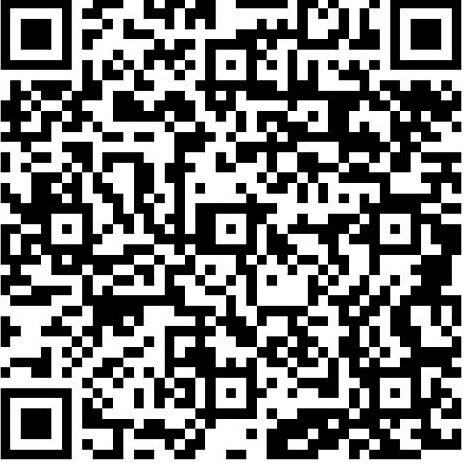
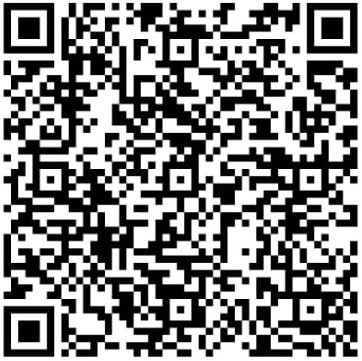
ok

diff --git a/templates/payment.html b/templates/payment.html
@@ -1,0 +1,144 @@
+<!DOCTYPE html>
+<html lang="en">
+
+<head>
+
+    <!--
+RSSI
+http://www.rssi.in
+-->
+    <title>Payment</title>
+</head>
+
+<meta name="description" content="">
+<meta name="author" content="">
+<meta charset="UTF-8">
+<meta http-equiv="X-UA-Compatible" content="IE=Edge">
+<meta name="viewport" content="width=device-width, initial-scale=1, maximum-scale=1">
+
+
+<link rel="shortcut icon" href="/images/logo/favicon.ico" type="image/x-icon" />
+<script src="/js/jquery.js"></script>
+<script>
+    $(function() {
+        $("#header").load("/header.html");
+        $("#footer").load("/footer.html");
+    });
+</script>
+<link rel="stylesheet" href="/css/HeaderFooter.css">
+<link rel="stylesheet" href="/css/bootstrap.min.css">
+<!-- Main css -->
+<link rel="stylesheet" href="/css/style.css">
+<link rel="stylesheet" href="/css/addstyle.css">
+
+<!-- =========================
+     NAVIGATION LINKS     
+============================== -->
+
+<body>
+
+    <div id="header"></div>
+
+    <!-- NAVIGATION PATH -->
+
+    <!--<img src="" alt="" width="100%"/><br>-->
+    <div style="margin: 0.3%;">
+        <ps class="marginleft notice" style="margin-left: 3%;">
+            <a href="/index">Home</a> &#62; Payment</ps>
+    </div>
+    <!-- =========================
+     Donation portal   
+============================== -->
+
+    <section id="donation" style="padding: 5%; background:#fff">
+
+
+        <div class="row1">
+            <div class="column6">
+                <div class="row1">
+                    <div class="column7 dnd marginleft">
+                        <p>Account Number: <b>201008915512</b></p>
+                        <p>A/C Name: 52617897 - Rina Shiksha Sahayak Foundation</p>
+                        <p>Bank Name: Indusind Bank Ltd, 0865 - Chhinhat Lucknow</p>
+                        <p>IFSC Code: INDB0000865</p>
+                    </div>
+
+                    <div class="column7a">
+                        <img src="/images/donation/payment.jpg" alt="Google pay QR" class="img-responsive"><br>
+                        <p class="text-warning">Scan the above QR code to make payment</p>
+                    </div>
+                </div>
+            </div>
+
+            <div class="column6a">
+                <embed src="/form" width="100%" height="430px">
+                </embed>
+            </div>
+        </div>
+        <br>
+    </section>
+
+
+    <!-- =========================
+     SCRIPTS   
+============================== -->
+
+    <script src="/js/pace.js"></script>
+    <script src="/js/fontawsome.js"></script>
+    <script src="/js/smoothscroll.js"></script>
+    <script src="/js/bootstrap.min.js"></script>
+    <script src="/js/jquery.parallax.js"></script>
+    <script src="/js/wow.min.js"></script>
+    <script src="/js/custom.js"></script>
+
+    <script>
+        document.addEventListener("DOMContentLoaded", function() {
+            var lazyloadImages = document.querySelectorAll("img.lazy");
+            var lazyloadThrottleTimeout;
+
+            function lazyload() {
+                if (lazyloadThrottleTimeout) {
+                    clearTimeout(lazyloadThrottleTimeout);
+                }
+
+                lazyloadThrottleTimeout = setTimeout(function() {
+                    var scrollTop = window.pageYOffset;
+                    lazyloadImages.forEach(function(img) {
+                        if (img.offsetTop < (window.innerHeight + scrollTop)) {
+                            img.src = img.dataset.src;
+                            img.classList.remove('lazy');
+                        }
+                    });
+                    if (lazyloadImages.length == 0) {
+                        document.removeEventListener("scroll", lazyload);
+                        window.removeEventListener("resize", lazyload);
+                        window.removeEventListener("orientationChange", lazyload);
+                    }
+                }, 20);
+            }
+
+            document.addEventListener("scroll", lazyload);
+            window.addEventListener("resize", lazyload);
+            window.addEventListener("orientationChange", lazyload);
+        });
+    </script>
+
+
+    <!-- =========================
+     FOOTER   
+============================== -->
+    <!-- Back top -->
+    <a id="bttbutton" href="#back-top" class="go-top"><i class="fa fa-angle-up"></i></a>
+    <script src="https://cdn.jsdelivr.net/gh/manucaralmo/GlowCookies@3.0.1/src/glowCookies.min.js"></script>
+    <!-- Glow Cookies v3.0.1 -->
+    <script>
+        glowCookies.start('en', {
+            analytics: 'G-S25QWTFJ2S',
+            //facebookPixel: '',
+            policyLink: '/website-disclaimer'
+        });
+    </script>
+    <div id="footer"></div>
+</body>
+
+</html>

diff --git a/templates/form.html b/templates/form.html
@@ -1,0 +1,83 @@
+<!DOCTYPE html>
+<html>
+
+<head>
+    <meta name="description" content="">
+    <meta name="author" content="">
+    <meta charset="UTF-8">
+    <meta http-equiv="X-UA-Compatible" content="IE=Edge">
+    <meta name="viewport" content="width=device-width, initial-scale=1, maximum-scale=1">
+    <title>Form</title>
+    <link href="//netdna.bootstrapcdn.com/bootstrap/3.1.0/css/bootstrap.min.css" rel="stylesheet" id="bootstrap-css">
+    <link rel="shortcut icon" href="../img/favicon.ico" type="image/x-icon" />
+    <!-- Main css -->
+    <script src="//netdna.bootstrapcdn.com/bootstrap/3.1.0/js/bootstrap.min.js"></script>
+    <script src="//cdnjs.cloudflare.com/ajax/libs/jquery/3.2.1/jquery.min.js"></script>
+    <!------ Include the above in your HEAD tag ---------->
+</head>
+
+<body>
+    <div class="container">
+        <div class="row">
+            <div class="col-md-4 col-md-offset-4">
+                <div class="login-panel panel panel-info" style="padding: 5%;">
+                    <div class="panel-heading">
+                        <h3 class="panel-title"><b>Payment Details</b></h3>
+                        <p style="line-height: 2;">After making payment, please fill this form.</p>
+                    </div>
+                    <form name="submit-to-google-sheet" id="submit-to-google-sheet" action="" method="POST" onSubmit="alert('Your response has been recorded.');">
+                        <br><label for="fname">Your name</label><br>
+                        <input type="text" required id="fname" name="fname"><br><br>
+
+                        <label for="email">Registered email ID</label><br>
+                        <input type="email" required id="email" name="email"><br><br>
+
+                        <label for="transactionid">Transaction ID</label><br>
+                        <input type="text" required id="transactionid" name="transactionid"><br><br>
+
+                        <input type="submit" id="btnSubmit" value="Submit">
+                        <input type="button" onclick='window.location.href="/form"' value="Reset form">
+                    </form>
+                </div>
+            </div>
+        </div>
+    </div>
+
+    <script>
+        const scriptURL = 'https://script.google.com/a/rssi.in/macros/s/AKfycbyszxSBdXvUOL4sCzlqOQiUzgn7b2LqN3JFBGgLgSqaGGNhU3lZ/exec'
+        const form = document.forms['submit-to-google-sheet']
+
+        form.addEventListener('submit', e => {
+            e.preventDefault()
+            fetch(scriptURL, {
+                    method: 'POST',
+                    body: new FormData(form)
+                })
+                .then(response => console.log('Success!', response))
+                .catch(error => console.error('Error!', error.message))
+        })
+    </script>
+    <script>
+        if (window.history.replaceState) {
+            window.history.replaceState(null, null, window.location.href);
+        }
+    </script>
+    <script>
+        $(document).ready(function() {
+
+            $("#submit-to-google-sheet").submit(function(e) {
+
+                //stop submitting the form to see the disabled button effect
+                e.preventDefault();
+
+                //disable the submit button
+                $("#btnSubmit").attr("disabled", true);
+
+                return true;
+
+            });
+        });
+    </script>
+</body>
+
+</html>

diff --git a/templates/donation-portal.html b/templates/donation-portal.html
@@ -67,8 +67,8 @@ http://www.rssi.in
                         <p>IFSC Code: INDB0000865</p>
                     </div>
 
-                    <!--<div class="column7a"> <img src="/images/donation/payment.jpg" alt="Google pay QR" class="img-responsive">
-                    </div>-->
+                    <div class="column7a"> <img src="/images/donation/payment.jpg" alt="Google pay QR" class="img-responsive">
+                    </div>
                 </div>
 
 

diff --git a/templates/index.html b/templates/index.html
@@ -633,11 +633,11 @@
     <!-- Your Chat plugin code -->
     <!--<div class="fb-customerchat" attribution="biz_inbox" page_id="107348941535385">
     </div>-->
-    <!--<style>
+    <style>
         .grecaptcha-badge {
             visibility: hidden;
         }
-    </style>-->
+    </style>
 </body>
 
 </html>
